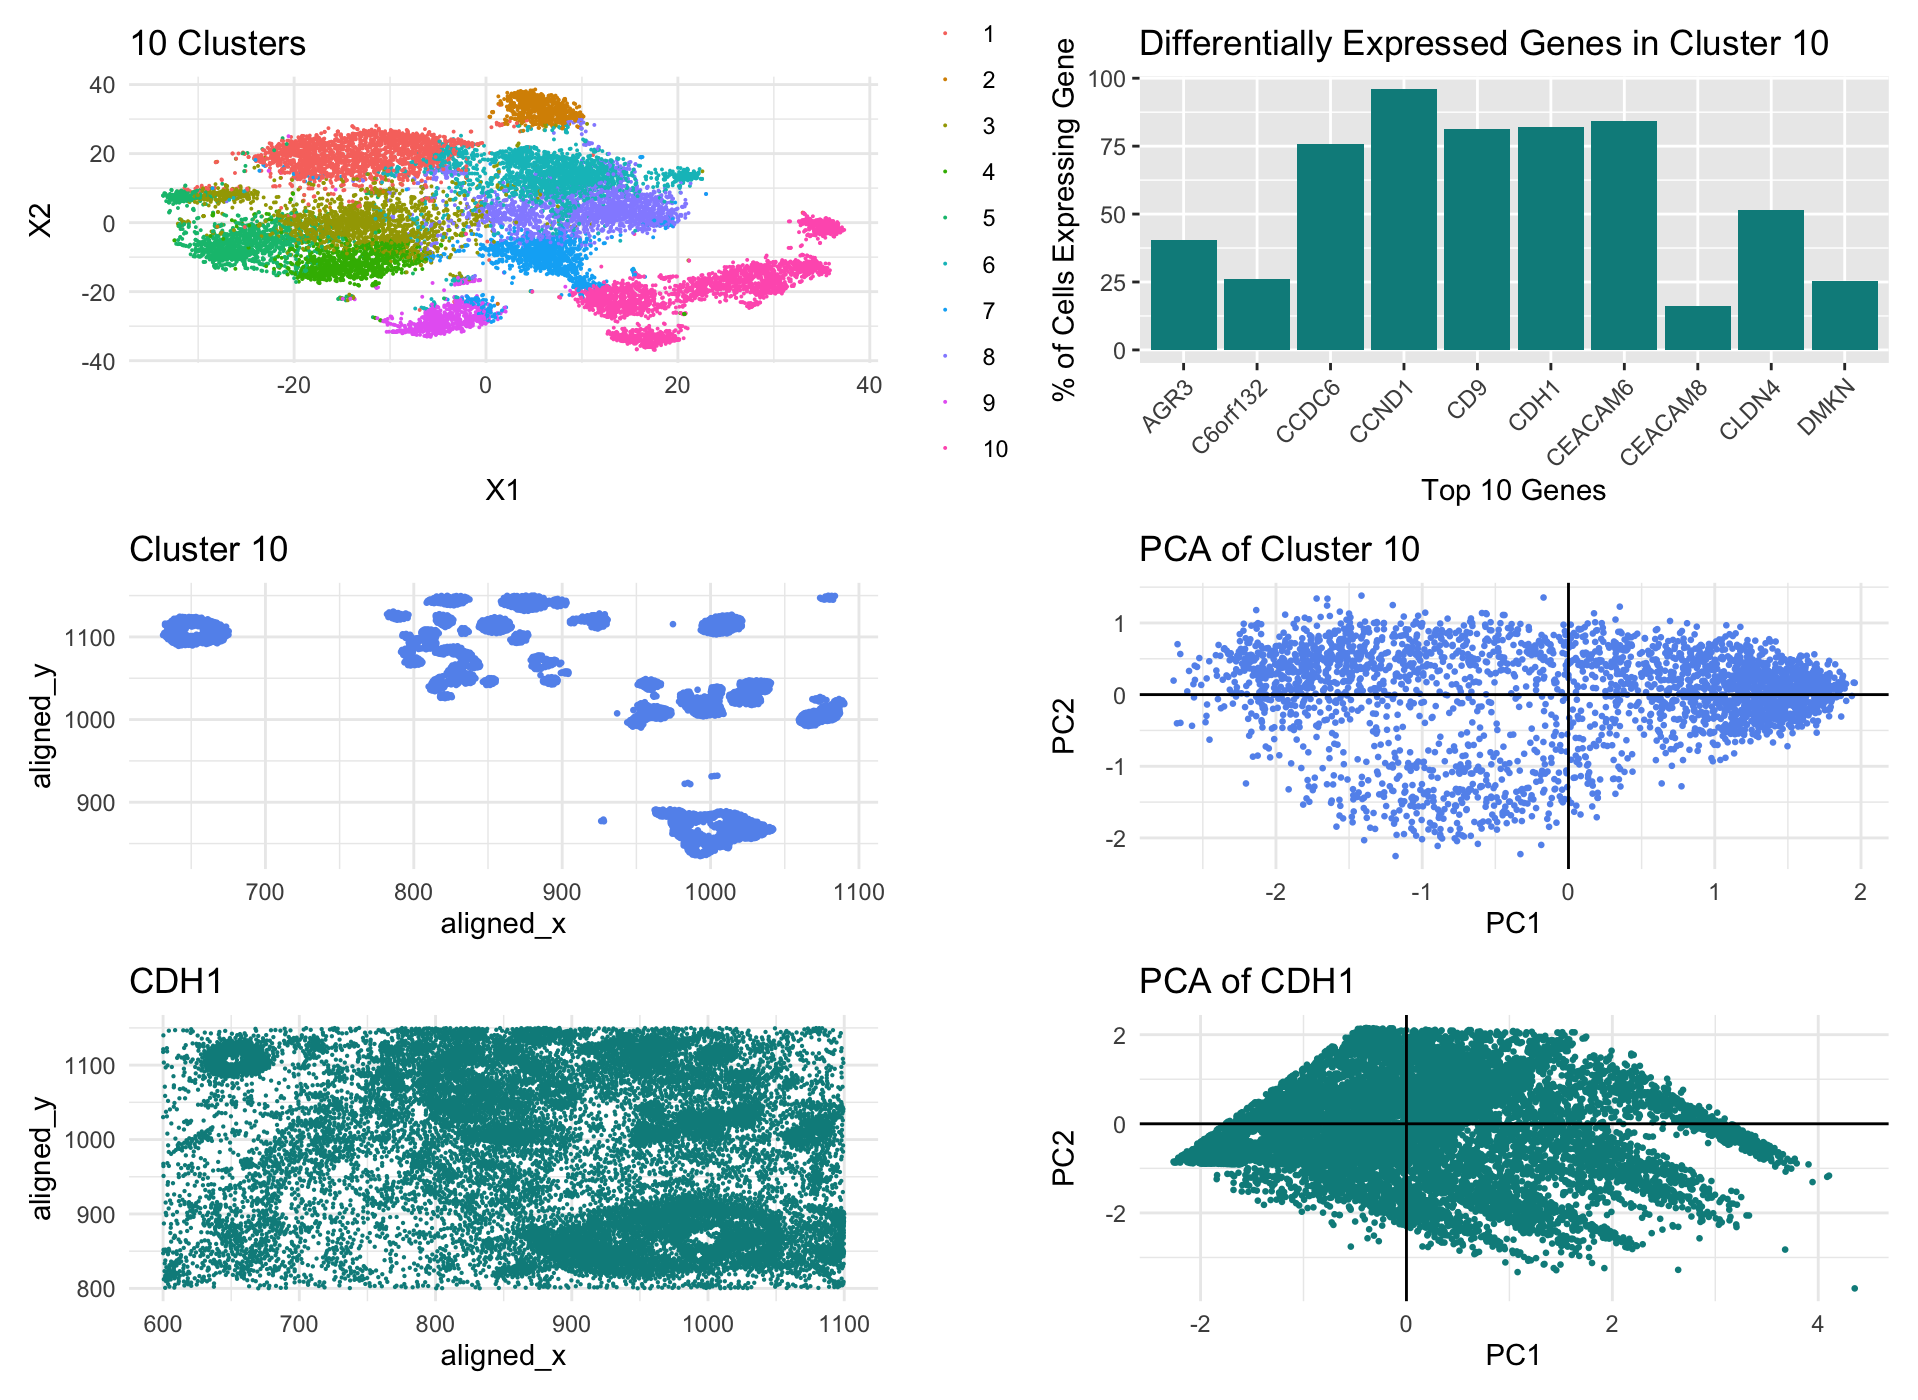
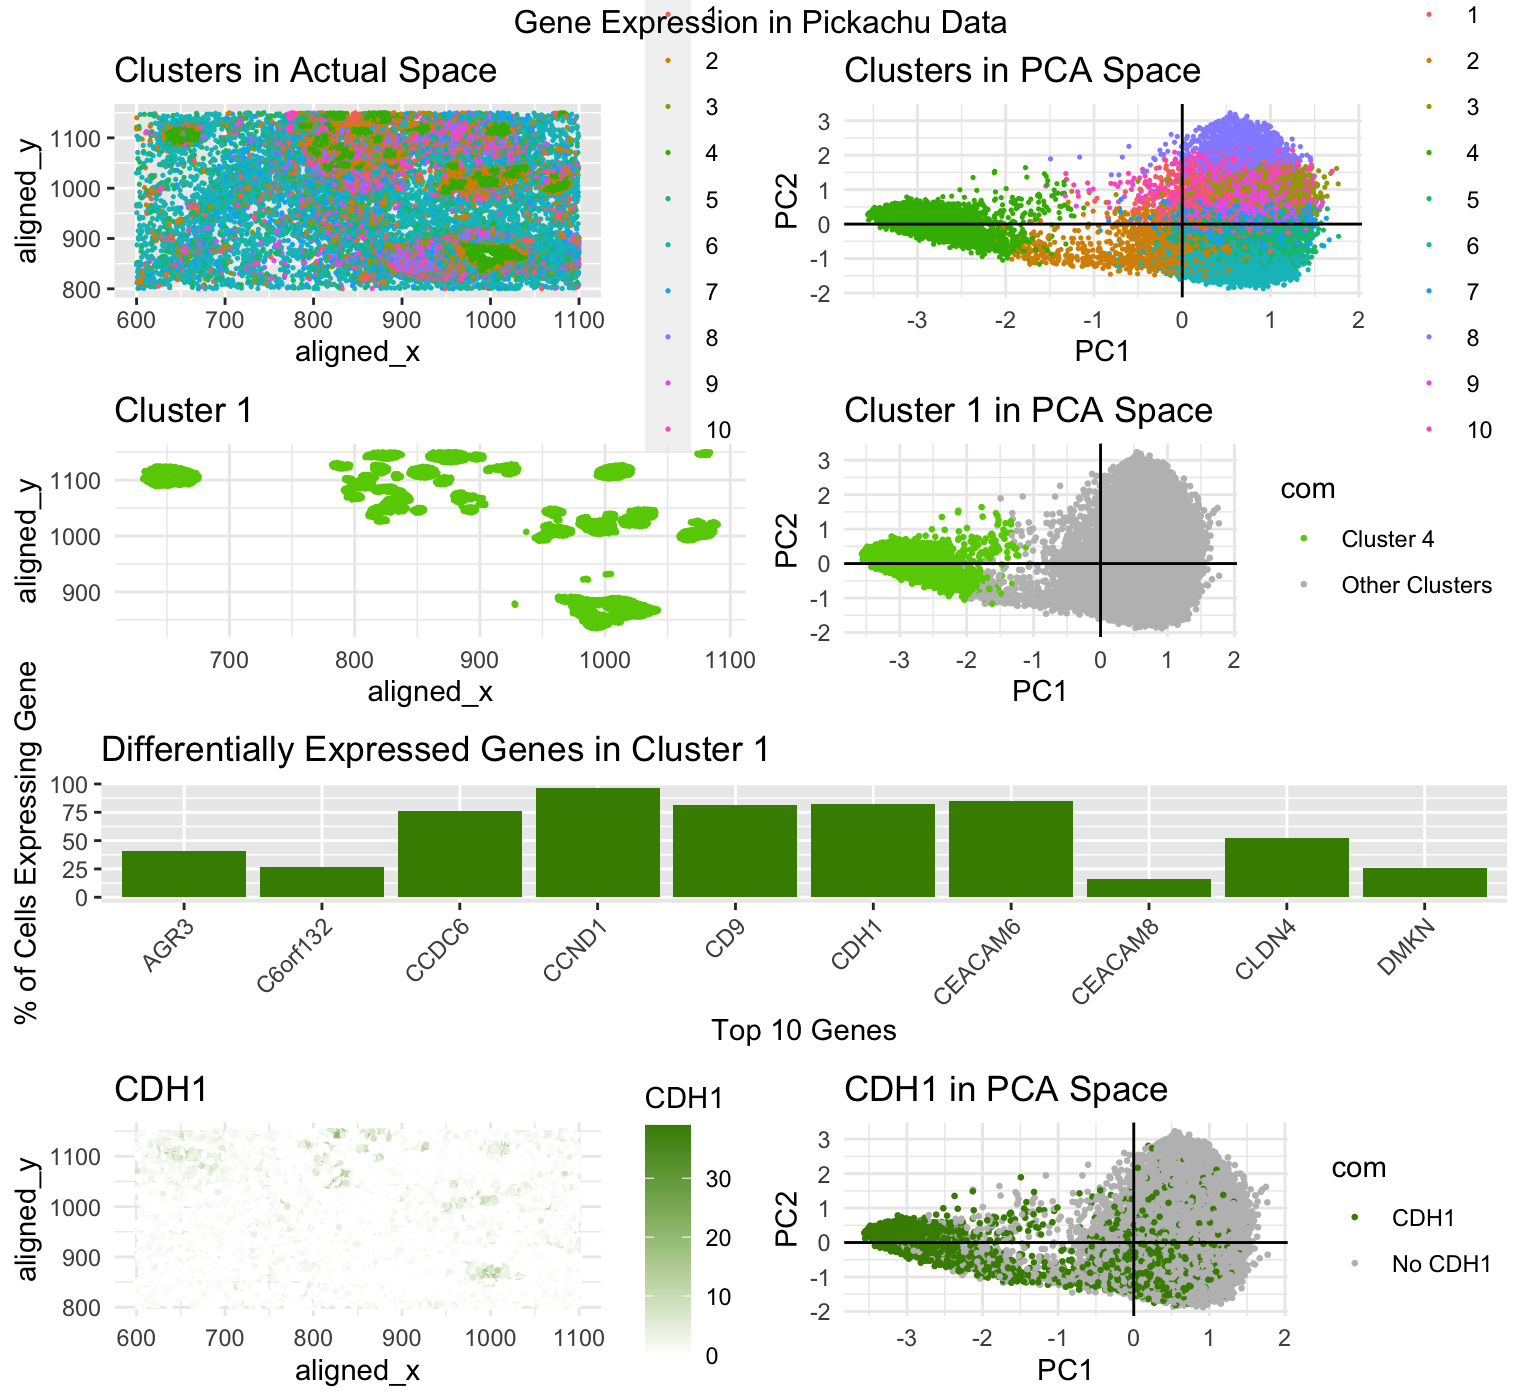
fixed hw4 for ec

diff --git a/_posts/2024-02-14-stripat9.md b/_posts/2024-02-14-stripat9.md
@@ -23,6 +23,10 @@ External Source: The Human Protein Altas (https://www.proteinatlas.org/ENSG00000
 library(ggplot2)
 library(Rtsne)
 library(patchwork)
+library(gganimate)
+library(lattice)
+library(ggrepel)
+library(gridExtra)
 
 data <- read.csv('/Users/shailitripathi/Downloads/GENOMIC/Homework/pikachu.csv.gz', row.names=1)
 dim(data)
@@ -35,71 +39,68 @@ gexp <- data[,6:ncol(data)]
 gexpnorm <- log10(gexp/rowSums(gexp) * mean(rowSums(gexp)) + 1)
 
 
-# PCA
-
+# PCA 
 pcs <- prcomp(gexpnorm)
-plot(pcs$sdev[1:100])
-
-
-# TSNE
-
-emb <- Rtsne(gexpnorm)$Y
-
-
-# TOTAL WITHINESS
-
-results <- sapply(seq(2, 30, by = 1), function(i) {
-  print(i)
-  com <- kmeans(emb, centers = i, iter.max = 20)
-  return(com$tot.withinss)
-})
-results
-plot(results, type = "l")
-
-
-# K-MEANS
-set.seed(123)
-com <- as.factor(kmeans(pcs$x[,1:20], centers=10)$cluster)
-
-k_means <- ggplot(data.frame(emb, com)) + 
-  geom_point(aes(x=X1, y=X2, col = com), size = 0.03) + 
-  ggtitle("10 Clusters") + 
-  theme_minimal() 
-k_means
-
-
-# CLUSTER OF INTEREST - physical space
-
-cluster_data <- data[com==10, ]
-cluster <- ggplot(cluster_data, aes(x = aligned_x, y = aligned_y)) +
-  geom_point(color = 'cornflowerblue', size = 0.5) + 
-  ggtitle("Cluster 10") + 
-  theme_minimal()
-cluster
-
-
-# CLUSTER OF INTEREST - reduced dimensional space: pca
-
-cluster_gexp <- gexpnorm[row.names(gexpnorm) %in% row.names(cluster_data), ]
-cluster_pcs <- prcomp(cluster_gexp)
-cluster_pca <- ggplot(data.frame(cluster_pcs$x[, 1:2]), aes(x = PC1, y = PC2)) + 
-  geom_point(size = 0.5, color = "cornflowerblue") + 
-  labs(x = "PC1", y = "PC2", title = "PCA of Cluster 10") + 
+plot(pcs$sdev[1:30], type = 'l') # plot variance of first 30 pcs
+pc_plot <- ggplot(data.frame(pcs$x)) + geom_point(aes(x = PC1, y = PC2)) +
   geom_hline(yintercept = 0, linetype = "solid", color = "black") +
   geom_vline(xintercept = 0, linetype = "solid", color = "black") + 
   theme_minimal() 
-cluster_pca
+pc_plot
 
+
+# K-MEANS
+
+set.seed(123)
+
+totw <- sapply(1:20, function(i) {
+  com <- kmeans(pcs$x[, 1:5], centers = i)
+  return(com$tot.withinss)
+})
+plot(totw, type = 'l')
+
+com <- kmeans(pcs$x[, 1:5], centers = 10)
+cluster_labels <- as.factor(com$cluster)
+
+pca_cluster <- ggplot(data.frame(pcs$x[, 1:2], com = cluster_labels)) +
+  geom_point(aes(x = PC1, y = PC2, col = com), size = 0.5) +
+  labs(title = "Clusters in PCA Space") + 
+  geom_hline(yintercept = 0, linetype = "solid", color = "black") +
+  geom_vline(xintercept = 0, linetype = "solid", color = "black") + 
+  theme_minimal() 
+
+actual_cluster <- ggplot(data.frame(pos, com = cluster_labels)) +
+  geom_point(aes(x = aligned_x, y = aligned_y, col = com), size = 0.25) +
+  labs(title = "Clusters in Actual Space") 
+
+pca_cluster + actual_cluster
+
+# CLUSTERS OF INTEREST 
+
+cluster_data <- data[cluster_labels==4, ]
+cluster4 <- ggplot(cluster_data, aes(x = aligned_x, y = aligned_y)) +
+  geom_point(color = 'chartreuse3', size = 0.5) + 
+  ggtitle("Cluster 1") + 
+  theme_minimal()
+
+cluster_colors <- ifelse(cluster_labels == 4, "Cluster 4", "Other Clusters")
+cluster4_pca <- ggplot(data.frame(pcs$x[, 1:2], com = cluster_colors)) +
+  geom_point(aes(x = PC1, y = PC2, color = com), size = 0.5) +
+  labs(title = "Cluster 1 in PCA Space") + 
+  geom_hline(yintercept = 0, linetype = "solid", color = "black") +
+  geom_vline(xintercept = 0, linetype = "solid", color = "black") + 
+  scale_color_manual(values = c("Cluster 4" = "chartreuse3", "Other Clusters" = "gray")) +
+  theme_minimal()
 
 # DIFFERENTIALLY EXPRESSED GENES - Wilcox test
 
 results <- sapply(colnames(gexpnorm), function(g) {
-  wilcox.test(gexpnorm[com == 10, g], 
-              gexpnorm[com != 10, g], 
+  wilcox.test(gexpnorm[cluster_labels == 4, g], 
+              gexpnorm[cluster_labels != 4, g], 
               alternative = "greater")$p.val
 })
 results
-
+names(sort(results[results < 0.05], decreasing = FALSE))[1:10]
 top_10_genes <- names(sort(results[results < 0.05], decreasing = FALSE))[1:10]
 percent_expression <- sapply(top_10_genes, function(gene) {
   mean(cluster_data[gene] > 0) * 100
@@ -110,41 +111,42 @@ plot_data <- data.frame(
 )
 
 dif_exp <- ggplot(plot_data, aes(x = Gene, y = Percent_Expression)) +
-  geom_bar(stat = "identity", fill = "cyan4") +
-  labs(x = "Top 10 Genes", y = "% of Cells Expressing Gene", title = "Differentially Expressed Genes in Cluster 10") +
+  geom_bar(stat = "identity", fill = "chartreuse4") +
+  labs(x = "Top 10 Genes", y = "% of Cells Expressing Gene", title = "Differentially Expressed Genes in Cluster 1") +
   theme(axis.text.x = element_text(angle = 45, hjust = 1)) 
 dif_exp
 
-# CDH1 - physical space
 
-cdh1_data <- data.frame(data, com, gene=gexpnorm[, 'CDH1'])
+# CDH1
 
-cdh1 <- ggplot(cdh1_data, aes(x = aligned_x, y = aligned_y)) +
-  geom_point(color = 'cyan4', size = 0.1) +
+CDH1_data <- data.frame(data, cluster_labels, gene=gexpnorm[, 'CDH1'])
+CDH1 <- ggplot(CDH1_data, aes(x = aligned_x, y = aligned_y, color = CDH1)) +
+  geom_point(size = 0.5) +
   ggtitle("CDH1") + 
+  scale_color_gradient(low = "white", high = "chartreuse4" ) +
   theme_minimal()
-cdh1
 
-
-# CDH1 - reduced dimensional space: pca
-
-pca_result <- prcomp(cdh1_data[, c("aligned_x", "aligned_y", "gene")], scale. = TRUE)
-pca_scores <- as.data.frame(pca_result$x)
-pca_scores$CDH1 <- cdh1_data$CDH1 # Source: ChatGPT
-
-cdh1_pca <- ggplot(pca_scores, aes(x = PC1, y = PC2, color = CDH1)) +
-  geom_point(size = 0.5, color = "cyan4") + 
-  ggtitle("PCA of CDH1 ") + 
+CDH1_colors <- ifelse(gexpnorm[, 'CDH1'] > 0, "CDH1", "No CDH1")
+CDH1_pca <- ggplot(data.frame(pcs$x[, 1:2], com = CDH1_colors)) +
+  geom_point(aes(x = PC1, y = PC2, color = com), size = 0.5) +
+  labs(title = "CDH1 in PCA Space") + 
   geom_hline(yintercept = 0, linetype = "solid", color = "black") +
   geom_vline(xintercept = 0, linetype = "solid", color = "black") + 
-  theme_minimal() 
-cdh1_pca
+  scale_color_manual(values = c("CDH1" = "chartreuse4", "No CDH1" = "gray")) +
+  theme_minimal()
 
 
 # DATA VISUALIZATION
 
-k_means + dif_exp +
-  cluster + cluster_pca +
-  cdh1 + cdh1_pca +
-  plot_layout(ncol = 2, widths = c(1, 1))
+lay <- rbind(c(1,2),
+             c(3,4), 
+             c(5, 5), 
+             c(6, 7))
+
+grid.arrange(actual_cluster, pca_cluster,
+             cluster4, cluster4_pca,
+             dif_exp,
+             CDH1, CDH1_pca,
+             layout_matrix = lay,
+             top = "Gene Expression in Pickachu Data")
 ```
